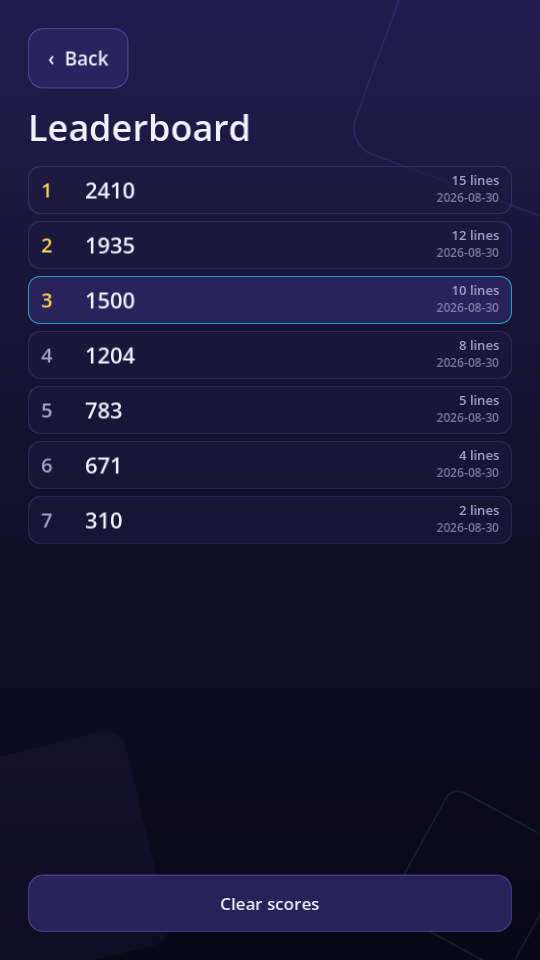
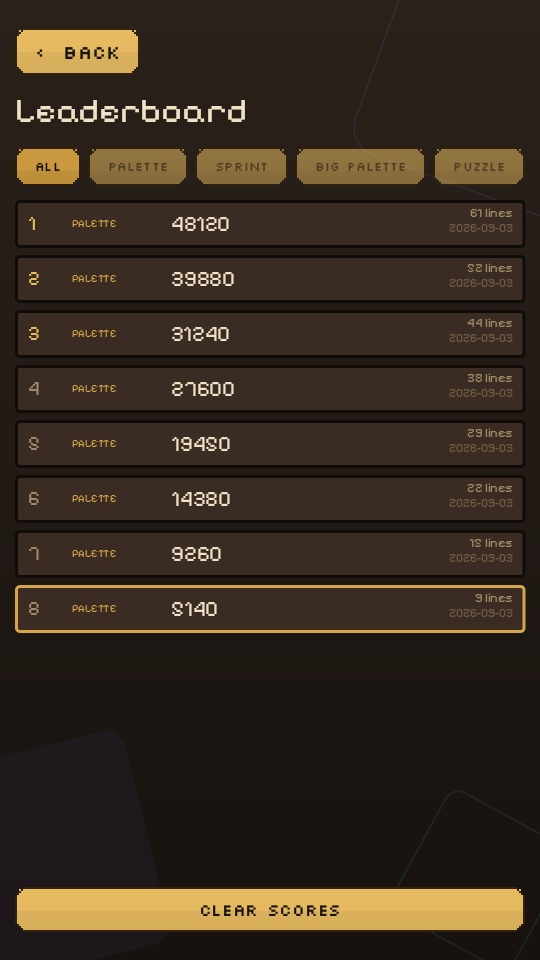
Refresh the screenshots, and show the power strip
The four in the README were from a build before the pixel theme: rounded
blue-purple blocks, no power strip, no XP bar, no charge meter. They
showed a game that no longer exists.

Seven now, captured from the real app rather than a mocked scene -- the
director drives App.goto_scene and reads the current scene, so every
shot carries the real theme, background and layout. Three are new: the
power strip with Bomb, Blackhole and Laser charged and lit; a Blackhole
imploding the middle of the board under its own black sky; and the skill
tree, which shows the bomb in its new tier 1.

The state is a level-50 profile, which is the honest pairing: Blackhole
is tier 5, and a player who owns one has also grown the board to 12x12.
Two details had to be corrected after looking at the first pass, neither
of which an assertion would have caught -- the profile advertised 12
unspent unlocks, because seeding _unlocked directly bypasses the
unlock() that spends the bank; and a tutorial coach line sat under the
tray of a veteran's board, because a wiped profile has seen no hints.
The board is also weighted by depth now: an even sprinkle of blocks
reads as noise, where a drift piled up from the bottom reads as a game
in progress.

Captured with Movie Maker at the native 540x960 per docs/testing.md.
The director had to be re-parented to the tree root mid-way: it was the
current scene, so the first App.goto_scene freed it and every await
[…]

diff --git a/README.md b/README.md
@@ -4,9 +4,13 @@ A drag-and-drop block puzzle for Android and iOS, built with **Godot 4.7.2**.
 
 Five cards sit in a tray at the bottom of the screen. Drag one onto the board; fill any row or column and it clears. The tray refills once all five are spent, and the run ends when nothing left in your hand fits anywhere — unless you have a power charged.
 
-| Menu | Line clear | Bomb | Leaderboard |
+| Menu | Powers charged | Blackhole | Bomb |
 |:---:|:---:|:---:|:---:|
-| ![Main menu](screenshots/menu.png) | ![Clearing four lines at once](screenshots/line-clear.png) | ![Bomb clearing the bottom half](screenshots/bomb.png) | ![Leaderboard](screenshots/leaderboard.png) |
+| ![Main menu](screenshots/menu.png) | ![The power strip with Bomb, Blackhole and Laser charged and ready](screenshots/powers.png) | ![Blackhole imploding the middle of the board](screenshots/blackhole.png) | ![Bomb detonating](screenshots/bomb.png) |
+
+| Line clear | The skill tree | Leaderboard |
+|:---:|:---:|:---:|
+| ![Two lines clearing at once for 1,800](screenshots/line-clear.png) | ![The power skill tree on the Profile screen](screenshots/skill-tree.png) | ![Leaderboard](screenshots/leaderboard.png) |
 
 ## How it plays
 
